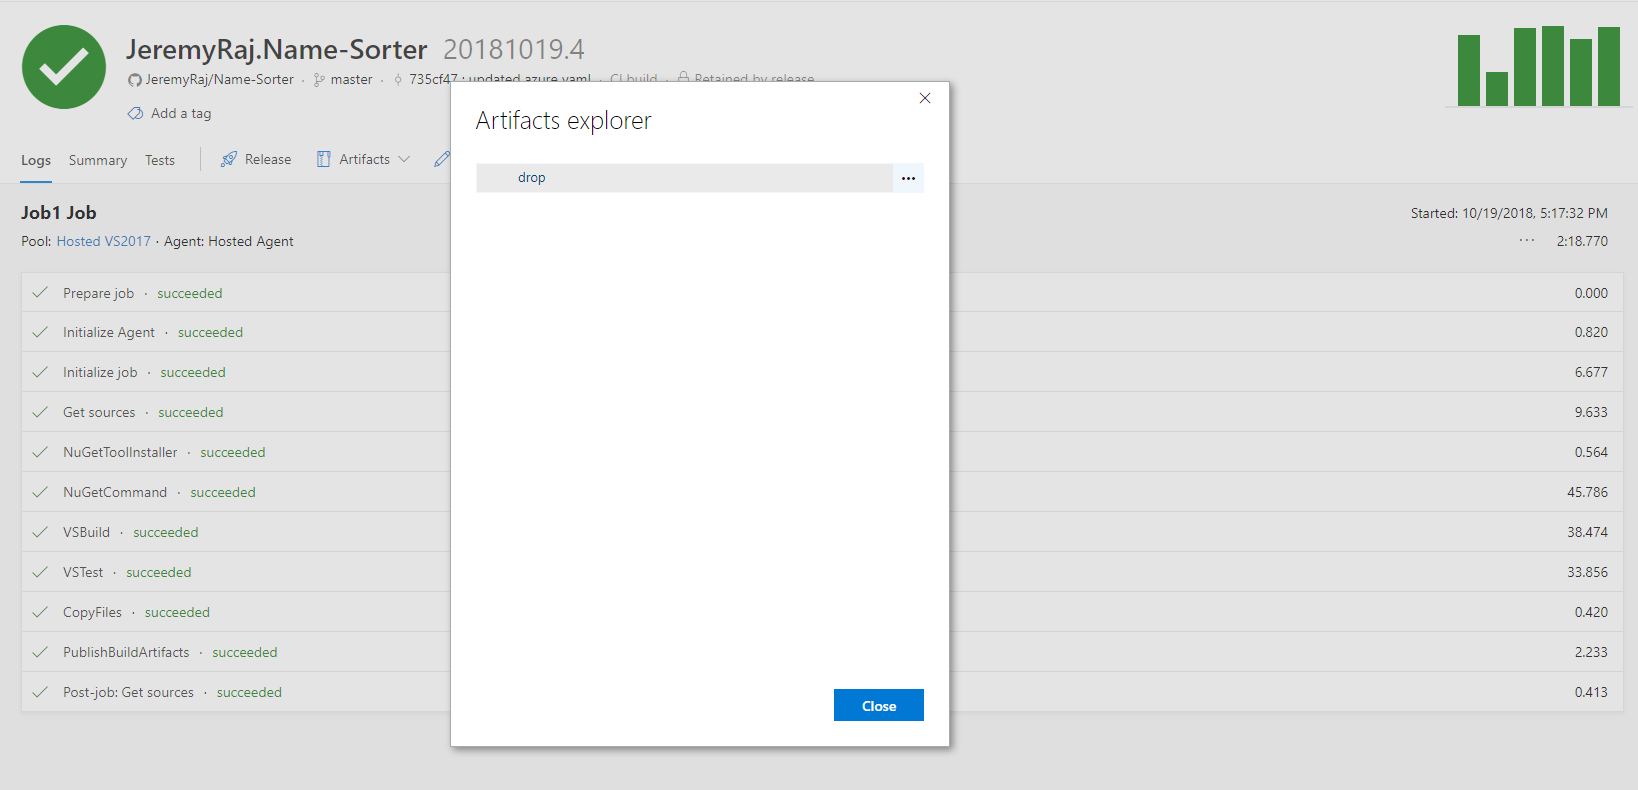
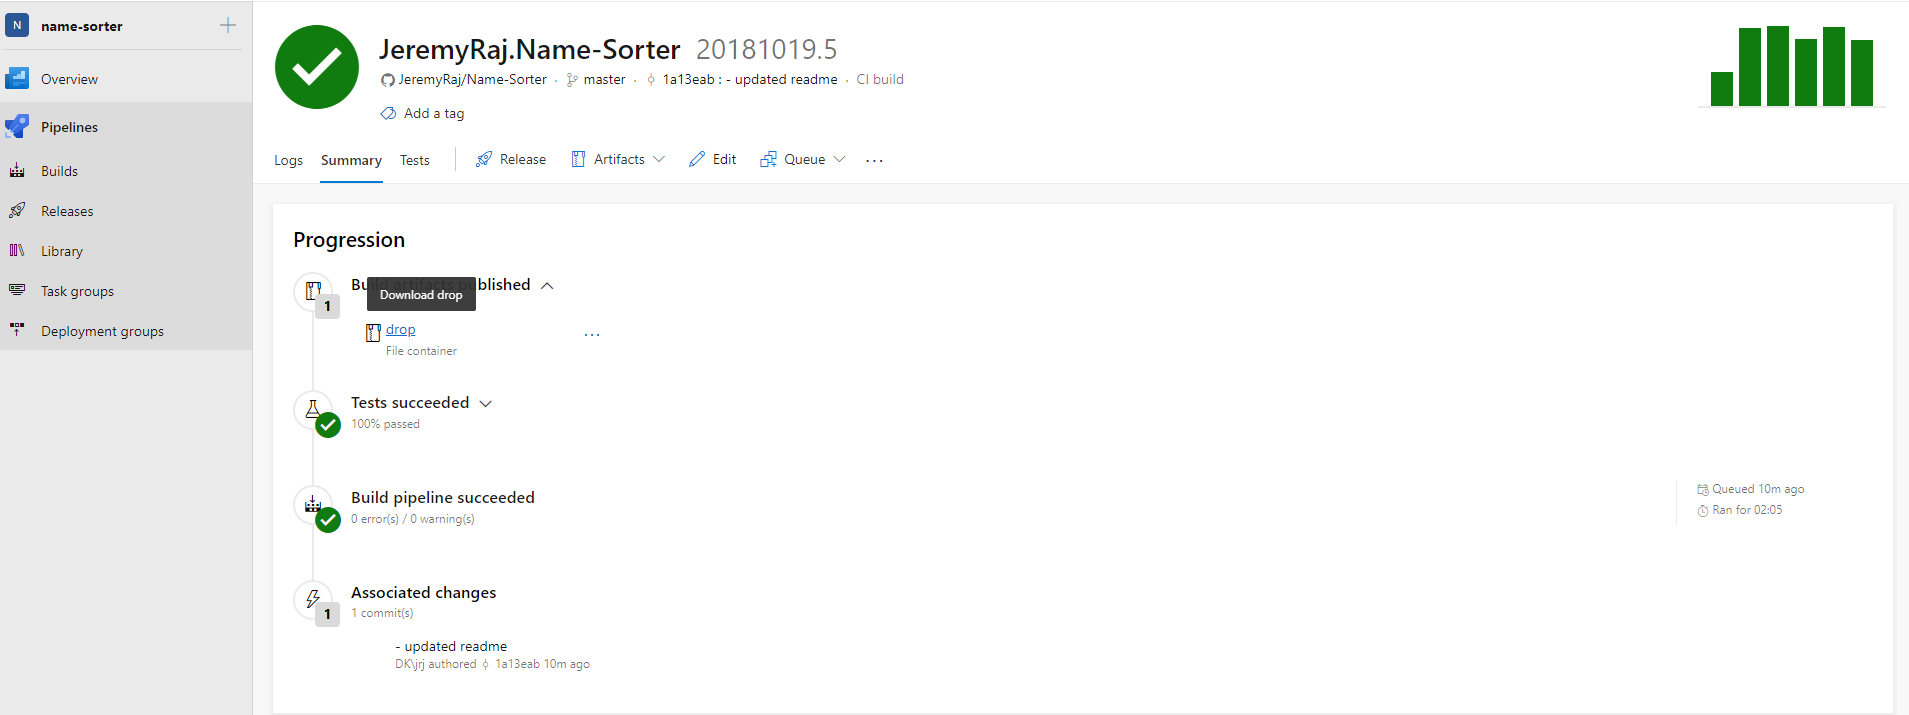
-updated screenshot and readme

diff --git a/README.md b/README.md
@@ -3,7 +3,7 @@
 Given a set of names, the app orders the set first by last name, then by any given names the person may have. A name must have at least 1 given name and may have up to 3 given names.
 
 # Getting Started
-Download the artifacts from a successful [Build](https://dev.azure.com/jeremyjayaraj/name-sorter/_build?definitionId=1)
+Download the artifacts from a successful [Build](https://dev.azure.com/jeremyjayaraj/name-sorter/_build?definitionId=1) drop folder.
 
 ![Screenshot](readmeimages/artifacts.png)
 
